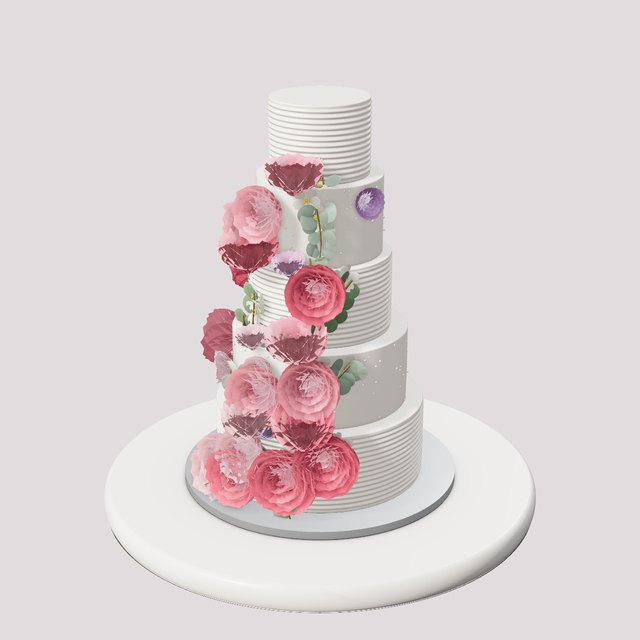
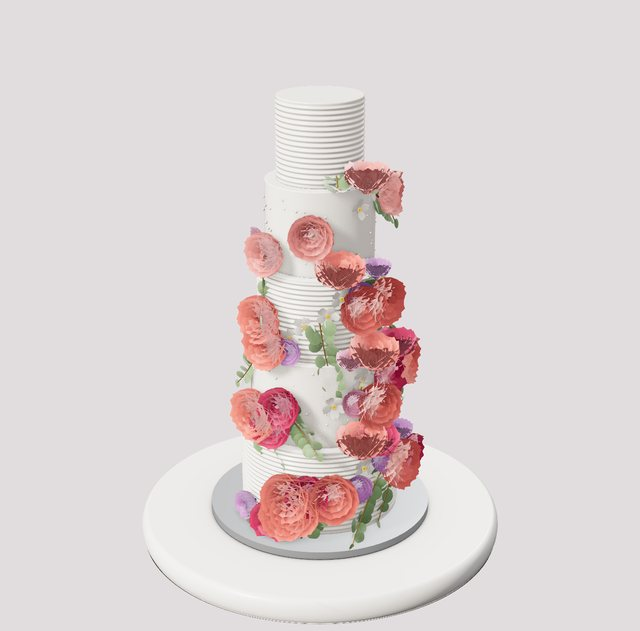
Signature peony: tall tiers, dense coral and magenta cascade down the front-right
Claude-Session: https://claude.ai/code/session_016sN14hzH19WJ5zrp8o2QGp

diff --git a/studio.html b/studio.html
@@ -1574,12 +1574,12 @@ DECOR_ICONS.plaque=di('<rect x="4" y="12" width="32" height="16" rx="3" fill="#1
 // ---------- Signature cakes: Sprinkle Me Silly's real cakes, rebuilt in the Studio ----------
 const SIG='Signature Cakes';
 THEMES.unshift(
- {key:'sig_peony',name:'Coral Peony Cascade',tag:SIG,blurb:'Five ivory tiers in combed buttercream and Swiss dots with a lush cascade of coral peonies, pink and lilac ranunculus and wildflowers.',d:{board:'silver',topper:'none',tiers:[
-  newTier(12,4.6,{texture:'lines',top:'none',bottom:'none',decor:[DC('sprig','cascade',7,{color:'#6f8a6a',rot:-12,wide:2.5,size:240}),DC('peonies','cascade',6,{color:'#e8607a',rot:-18,wide:2,size:440}),DC('ranunculus','cascade',5,{color:'#b58fcf',rot:-8,wide:2.5,size:330}),DC('peonies','cascade',4,{color:'#f4a9b8',rot:-14,wide:2,size:390}),DC('blossoms','cascade',10,{color:'#fbf7f1',rot:-10,wide:3,size:200}),DC('daisies','cascade',4,{color:'#fbf7f1',rot:-20,wide:3,size:190})]}),
-  newTier(10,4.4,{top:'none',bottom:'none',decor:[DC('dragees','scatter',90,{color:'#fbf4f0',size:70}),DC('sprig','cascade',5,{color:'#8fa597',rot:-14,wide:2.5,size:230}),DC('peonies','cascade',4,{color:'#f08a9e',rot:-20,wide:2,size:430}),DC('ranunculus','cascade',4,{color:'#f2b5c6',rot:-10,wide:2.5,size:320}),DC('blossoms','cascade',9,{color:'#fbf7f1',rot:-16,wide:3,size:190})]}),
-  newTier(8,4.4,{texture:'lines',top:'none',bottom:'none',decor:[DC('sprig','cascade',4,{color:'#6f8a6a',rot:-16,wide:2.5,size:220}),DC('peonies','cascade',3,{color:'#e8607a',rot:-22,wide:2,size:410}),DC('ranunculus','cascade',3,{color:'#d79fd0',rot:-14,wide:2.5,size:310}),DC('blossoms','cascade',6,{color:'#fbf7f1',rot:-18,wide:3,size:180})]}),
-  newTier(7,4.4,{top:'none',bottom:'none',decor:[DC('dragees','scatter',60,{color:'#fbf4f0',size:70}),DC('sprig','cascade',3,{color:'#8fa597',rot:-18,wide:2.5,size:210}),DC('peonies','cascade',3,{color:'#f08a9e',rot:-24,wide:2,size:390}),DC('ranunculus','cascade',2,{color:'#b58fcf',rot:-16,wide:2.5,size:300}),DC('blossoms','cascade',5,{color:'#fbf7f1',rot:-20,wide:3,size:170})]}),
-  newTier(5.5,4.2,{texture:'lines',top:'none',bottom:'none'})]}},
+ {key:'sig_peony',name:'Coral Peony Cascade',tag:SIG,blurb:'Five tall ivory tiers alternating combed buttercream and Swiss dots, with a lush column of coral peonies, magenta and lilac ranunculus, white wildflowers and greenery down one side.',d:{board:'silver',topper:'none',tiers:[
+  newTier(9.6,5.4,{texture:'lines',top:'none',bottom:'none',decor:[DC('sprig','cascade',6,{color:'#7d9a6e',rot:-70,wide:1.2,size:220}),DC('peonies','cascade',6,{color:'#f0706a',rot:-68,wide:1.6,size:380}),DC('ranunculus','cascade',5,{color:'#b77fc4',rot:-74,wide:1.6,size:300}),DC('peonies','cascade',4,{color:'#c4335f',rot:-66,wide:1.6,size:330}),DC('blossoms','cascade',10,{color:'#fbf7f1',rot:-70,wide:1.4,size:170})]}),
+  newTier(8.4,5.2,{top:'none',bottom:'none',decor:[DC('dragees','scatter',110,{color:'#f1e8de',size:85}),DC('sprig','cascade',5,{color:'#7d9a6e',rot:-70,wide:1.2,size:210}),DC('peonies','cascade',5,{color:'#f0706a',rot:-68,wide:1.6,size:370}),DC('ranunculus','cascade',4,{color:'#e48fb0',rot:-74,wide:1.6,size:290}),DC('peonies','cascade',4,{color:'#c4335f',rot:-66,wide:1.6,size:320}),DC('blossoms','cascade',9,{color:'#fbf7f1',rot:-70,wide:1.4,size:160})]}),
+  newTier(7.4,5,{texture:'lines',top:'none',bottom:'none',decor:[DC('sprig','cascade',4,{color:'#7d9a6e',rot:-70,wide:1.2,size:200}),DC('peonies','cascade',5,{color:'#f0706a',rot:-68,wide:1.6,size:360}),DC('ranunculus','cascade',3,{color:'#b77fc4',rot:-74,wide:1.6,size:280}),DC('blossoms','cascade',8,{color:'#fbf7f1',rot:-70,wide:1.4,size:150})]}),
+  newTier(6.4,5,{top:'none',bottom:'none',decor:[DC('dragees','scatter',80,{color:'#f1e8de',size:85}),DC('sprig','cascade',3,{color:'#7d9a6e',rot:-70,wide:1.2,size:190}),DC('peonies','cascade',4,{color:'#f08a8a',rot:-68,wide:1.6,size:330}),DC('ranunculus','cascade',3,{color:'#e48fb0',rot:-74,wide:1.6,size:260}),DC('blossoms','cascade',6,{color:'#fbf7f1',rot:-70,wide:1.4,size:140})]}),
+  newTier(5,4.8,{texture:'lines',top:'none',bottom:'none'})]}},
  {key:'sig_monogram',name:'Gilded Monogram Hexagon',tag:SIG,blurb:'Champagne hexagons with bold geometric gold lines and a gold quilt, a pleated ivory tier, a gold leaf top and a floral monogram hoop.',d:{board:'silver',topper:'none',tiers:[
   newTier(13,5.2,{shape:'hexagon',color:'#e8d6bc',finish:'fondant',top:'none',bottom:'none',stencil:{pattern:'geo',color:'#c9a24e',size:4.4,height:4.4,y:.3},bottom:'pearls',bottomColor:'#d4ae5a'}),
   newTier(10.6,5.4,{shape:'hexagon',color:'#cfa95f',finish:'fondant',texture:'golf',goldLeaf:true,top:'none',bottom:'none'}),

diff --git a/tools/signature-decor.js b/tools/signature-decor.js
@@ -242,12 +242,12 @@ DECOR_ICONS.plaque=di('<rect x="4" y="12" width="32" height="16" rx="3" fill="#1
 // ---------- Signature cakes: Sprinkle Me Silly's real cakes, rebuilt in the Studio ----------
 const SIG='Signature Cakes';
 THEMES.unshift(
- {key:'sig_peony',name:'Coral Peony Cascade',tag:SIG,blurb:'Five ivory tiers in combed buttercream and Swiss dots with a lush cascade of coral peonies, pink and lilac ranunculus and wildflowers.',d:{board:'silver',topper:'none',tiers:[
-  newTier(12,4.6,{texture:'lines',top:'none',bottom:'none',decor:[DC('sprig','cascade',7,{color:'#6f8a6a',rot:-12,wide:2.5,size:240}),DC('peonies','cascade',6,{color:'#e8607a',rot:-18,wide:2,size:440}),DC('ranunculus','cascade',5,{color:'#b58fcf',rot:-8,wide:2.5,size:330}),DC('peonies','cascade',4,{color:'#f4a9b8',rot:-14,wide:2,size:390}),DC('blossoms','cascade',10,{color:'#fbf7f1',rot:-10,wide:3,size:200}),DC('daisies','cascade',4,{color:'#fbf7f1',rot:-20,wide:3,size:190})]}),
-  newTier(10,4.4,{top:'none',bottom:'none',decor:[DC('dragees','scatter',90,{color:'#fbf4f0',size:70}),DC('sprig','cascade',5,{color:'#8fa597',rot:-14,wide:2.5,size:230}),DC('peonies','cascade',4,{color:'#f08a9e',rot:-20,wide:2,size:430}),DC('ranunculus','cascade',4,{color:'#f2b5c6',rot:-10,wide:2.5,size:320}),DC('blossoms','cascade',9,{color:'#fbf7f1',rot:-16,wide:3,size:190})]}),
-  newTier(8,4.4,{texture:'lines',top:'none',bottom:'none',decor:[DC('sprig','cascade',4,{color:'#6f8a6a',rot:-16,wide:2.5,size:220}),DC('peonies','cascade',3,{color:'#e8607a',rot:-22,wide:2,size:410}),DC('ranunculus','cascade',3,{color:'#d79fd0',rot:-14,wide:2.5,size:310}),DC('blossoms','cascade',6,{color:'#fbf7f1',rot:-18,wide:3,size:180})]}),
-  newTier(7,4.4,{top:'none',bottom:'none',decor:[DC('dragees','scatter',60,{color:'#fbf4f0',size:70}),DC('sprig','cascade',3,{color:'#8fa597',rot:-18,wide:2.5,size:210}),DC('peonies','cascade',3,{color:'#f08a9e',rot:-24,wide:2,size:390}),DC('ranunculus','cascade',2,{color:'#b58fcf',rot:-16,wide:2.5,size:300}),DC('blossoms','cascade',5,{color:'#fbf7f1',rot:-20,wide:3,size:170})]}),
-  newTier(5.5,4.2,{texture:'lines',top:'none',bottom:'none'})]}},
+ {key:'sig_peony',name:'Coral Peony Cascade',tag:SIG,blurb:'Five tall ivory tiers alternating combed buttercream and Swiss dots, with a lush column of coral peonies, magenta and lilac ranunculus, white wildflowers and greenery down one side.',d:{board:'silver',topper:'none',tiers:[
+  newTier(9.6,5.4,{texture:'lines',top:'none',bottom:'none',decor:[DC('sprig','cascade',6,{color:'#7d9a6e',rot:-70,wide:1.2,size:220}),DC('peonies','cascade',6,{color:'#f0706a',rot:-68,wide:1.6,size:380}),DC('ranunculus','cascade',5,{color:'#b77fc4',rot:-74,wide:1.6,size:300}),DC('peonies','cascade',4,{color:'#c4335f',rot:-66,wide:1.6,size:330}),DC('blossoms','cascade',10,{color:'#fbf7f1',rot:-70,wide:1.4,size:170})]}),
+  newTier(8.4,5.2,{top:'none',bottom:'none',decor:[DC('dragees','scatter',110,{color:'#f1e8de',size:85}),DC('sprig','cascade',5,{color:'#7d9a6e',rot:-70,wide:1.2,size:210}),DC('peonies','cascade',5,{color:'#f0706a',rot:-68,wide:1.6,size:370}),DC('ranunculus','cascade',4,{color:'#e48fb0',rot:-74,wide:1.6,size:290}),DC('peonies','cascade',4,{color:'#c4335f',rot:-66,wide:1.6,size:320}),DC('blossoms','cascade',9,{color:'#fbf7f1',rot:-70,wide:1.4,size:160})]}),
+  newTier(7.4,5,{texture:'lines',top:'none',bottom:'none',decor:[DC('sprig','cascade',4,{color:'#7d9a6e',rot:-70,wide:1.2,size:200}),DC('peonies','cascade',5,{color:'#f0706a',rot:-68,wide:1.6,size:360}),DC('ranunculus','cascade',3,{color:'#b77fc4',rot:-74,wide:1.6,size:280}),DC('blossoms','cascade',8,{color:'#fbf7f1',rot:-70,wide:1.4,size:150})]}),
+  newTier(6.4,5,{top:'none',bottom:'none',decor:[DC('dragees','scatter',80,{color:'#f1e8de',size:85}),DC('sprig','cascade',3,{color:'#7d9a6e',rot:-70,wide:1.2,size:190}),DC('peonies','cascade',4,{color:'#f08a8a',rot:-68,wide:1.6,size:330}),DC('ranunculus','cascade',3,{color:'#e48fb0',rot:-74,wide:1.6,size:260}),DC('blossoms','cascade',6,{color:'#fbf7f1',rot:-70,wide:1.4,size:140})]}),
+  newTier(5,4.8,{texture:'lines',top:'none',bottom:'none'})]}},
  {key:'sig_monogram',name:'Gilded Monogram Hexagon',tag:SIG,blurb:'Champagne hexagons with bold geometric gold lines and a gold quilt, a pleated ivory tier, a gold leaf top and a floral monogram hoop.',d:{board:'silver',topper:'none',tiers:[
   newTier(13,5.2,{shape:'hexagon',color:'#e8d6bc',finish:'fondant',top:'none',bottom:'none',stencil:{pattern:'geo',color:'#c9a24e',size:4.4,height:4.4,y:.3},bottom:'pearls',bottomColor:'#d4ae5a'}),
   newTier(10.6,5.4,{shape:'hexagon',color:'#cfa95f',finish:'fondant',texture:'golf',goldLeaf:true,top:'none',bottom:'none'}),

diff --git a/tools/sig-themes.js b/tools/sig-themes.js
@@ -1,12 +1,12 @@
 // ---------- Signature cakes: Sprinkle Me Silly's real cakes, rebuilt in the Studio ----------
 const SIG='Signature Cakes';
 THEMES.unshift(
- {key:'sig_peony',name:'Coral Peony Cascade',tag:SIG,blurb:'Five ivory tiers in combed buttercream and Swiss dots with a lush cascade of coral peonies, pink and lilac ranunculus and wildflowers.',d:{board:'silver',topper:'none',tiers:[
-  newTier(12,4.6,{texture:'lines',top:'none',bottom:'none',decor:[DC('sprig','cascade',7,{color:'#6f8a6a',rot:-12,wide:2.5,size:240}),DC('peonies','cascade',6,{color:'#e8607a',rot:-18,wide:2,size:440}),DC('ranunculus','cascade',5,{color:'#b58fcf',rot:-8,wide:2.5,size:330}),DC('peonies','cascade',4,{color:'#f4a9b8',rot:-14,wide:2,size:390}),DC('blossoms','cascade',10,{color:'#fbf7f1',rot:-10,wide:3,size:200}),DC('daisies','cascade',4,{color:'#fbf7f1',rot:-20,wide:3,size:190})]}),
-  newTier(10,4.4,{top:'none',bottom:'none',decor:[DC('dragees','scatter',90,{color:'#fbf4f0',size:70}),DC('sprig','cascade',5,{color:'#8fa597',rot:-14,wide:2.5,size:230}),DC('peonies','cascade',4,{color:'#f08a9e',rot:-20,wide:2,size:430}),DC('ranunculus','cascade',4,{color:'#f2b5c6',rot:-10,wide:2.5,size:320}),DC('blossoms','cascade',9,{color:'#fbf7f1',rot:-16,wide:3,size:190})]}),
-  newTier(8,4.4,{texture:'lines',top:'none',bottom:'none',decor:[DC('sprig','cascade',4,{color:'#6f8a6a',rot:-16,wide:2.5,size:220}),DC('peonies','cascade',3,{color:'#e8607a',rot:-22,wide:2,size:410}),DC('ranunculus','cascade',3,{color:'#d79fd0',rot:-14,wide:2.5,size:310}),DC('blossoms','cascade',6,{color:'#fbf7f1',rot:-18,wide:3,size:180})]}),
-  newTier(7,4.4,{top:'none',bottom:'none',decor:[DC('dragees','scatter',60,{color:'#fbf4f0',size:70}),DC('sprig','cascade',3,{color:'#8fa597',rot:-18,wide:2.5,size:210}),DC('peonies','cascade',3,{color:'#f08a9e',rot:-24,wide:2,size:390}),DC('ranunculus','cascade',2,{color:'#b58fcf',rot:-16,wide:2.5,size:300}),DC('blossoms','cascade',5,{color:'#fbf7f1',rot:-20,wide:3,size:170})]}),
-  newTier(5.5,4.2,{texture:'lines',top:'none',bottom:'none'})]}},
+ {key:'sig_peony',name:'Coral Peony Cascade',tag:SIG,blurb:'Five tall ivory tiers alternating combed buttercream and Swiss dots, with a lush column of coral peonies, magenta and lilac ranunculus, white wildflowers and greenery down one side.',d:{board:'silver',topper:'none',tiers:[
+  newTier(9.6,5.4,{texture:'lines',top:'none',bottom:'none',decor:[DC('sprig','cascade',6,{color:'#7d9a6e',rot:-70,wide:1.2,size:220}),DC('peonies','cascade',6,{color:'#f0706a',rot:-68,wide:1.6,size:380}),DC('ranunculus','cascade',5,{color:'#b77fc4',rot:-74,wide:1.6,size:300}),DC('peonies','cascade',4,{color:'#c4335f',rot:-66,wide:1.6,size:330}),DC('blossoms','cascade',10,{color:'#fbf7f1',rot:-70,wide:1.4,size:170})]}),
+  newTier(8.4,5.2,{top:'none',bottom:'none',decor:[DC('dragees','scatter',110,{color:'#f1e8de',size:85}),DC('sprig','cascade',5,{color:'#7d9a6e',rot:-70,wide:1.2,size:210}),DC('peonies','cascade',5,{color:'#f0706a',rot:-68,wide:1.6,size:370}),DC('ranunculus','cascade',4,{color:'#e48fb0',rot:-74,wide:1.6,size:290}),DC('peonies','cascade',4,{color:'#c4335f',rot:-66,wide:1.6,size:320}),DC('blossoms','cascade',9,{color:'#fbf7f1',rot:-70,wide:1.4,size:160})]}),
+  newTier(7.4,5,{texture:'lines',top:'none',bottom:'none',decor:[DC('sprig','cascade',4,{color:'#7d9a6e',rot:-70,wide:1.2,size:200}),DC('peonies','cascade',5,{color:'#f0706a',rot:-68,wide:1.6,size:360}),DC('ranunculus','cascade',3,{color:'#b77fc4',rot:-74,wide:1.6,size:280}),DC('blossoms','cascade',8,{color:'#fbf7f1',rot:-70,wide:1.4,size:150})]}),
+  newTier(6.4,5,{top:'none',bottom:'none',decor:[DC('dragees','scatter',80,{color:'#f1e8de',size:85}),DC('sprig','cascade',3,{color:'#7d9a6e',rot:-70,wide:1.2,size:190}),DC('peonies','cascade',4,{color:'#f08a8a',rot:-68,wide:1.6,size:330}),DC('ranunculus','cascade',3,{color:'#e48fb0',rot:-74,wide:1.6,size:260}),DC('blossoms','cascade',6,{color:'#fbf7f1',rot:-70,wide:1.4,size:140})]}),
+  newTier(5,4.8,{texture:'lines',top:'none',bottom:'none'})]}},
  {key:'sig_monogram',name:'Gilded Monogram Hexagon',tag:SIG,blurb:'Champagne hexagons with bold geometric gold lines and a gold quilt, a pleated ivory tier, a gold leaf top and a floral monogram hoop.',d:{board:'silver',topper:'none',tiers:[
   newTier(13,5.2,{shape:'hexagon',color:'#e8d6bc',finish:'fondant',top:'none',bottom:'none',stencil:{pattern:'geo',color:'#c9a24e',size:4.4,height:4.4,y:.3},bottom:'pearls',bottomColor:'#d4ae5a'}),
   newTier(10.6,5.4,{shape:'hexagon',color:'#cfa95f',finish:'fondant',texture:'golf',goldLeaf:true,top:'none',bottom:'none'}),
